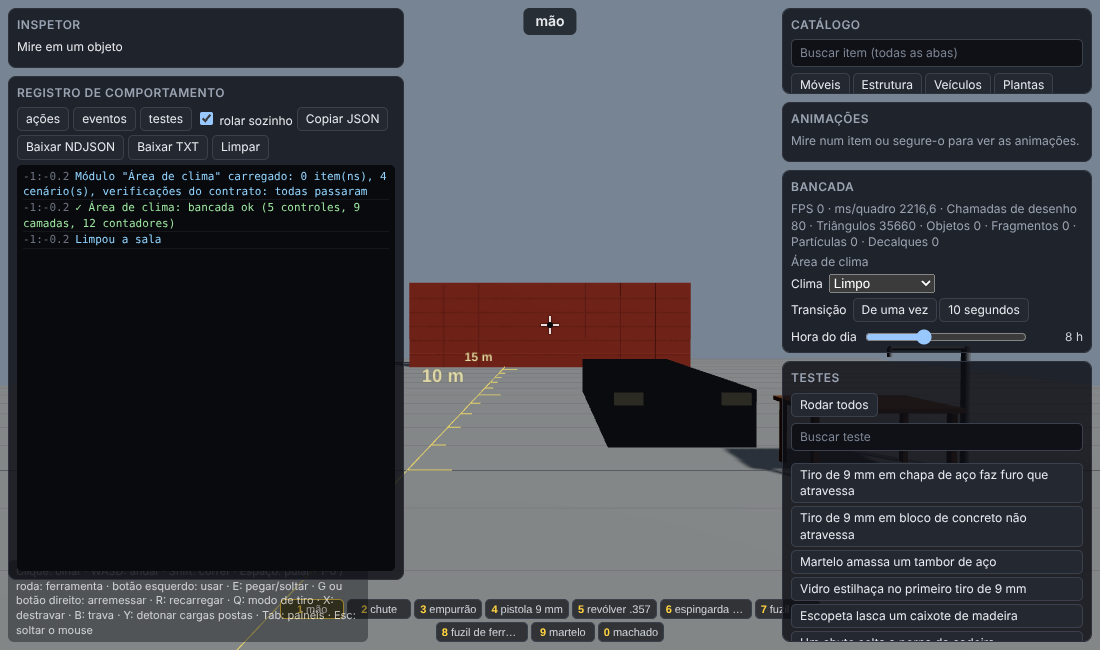
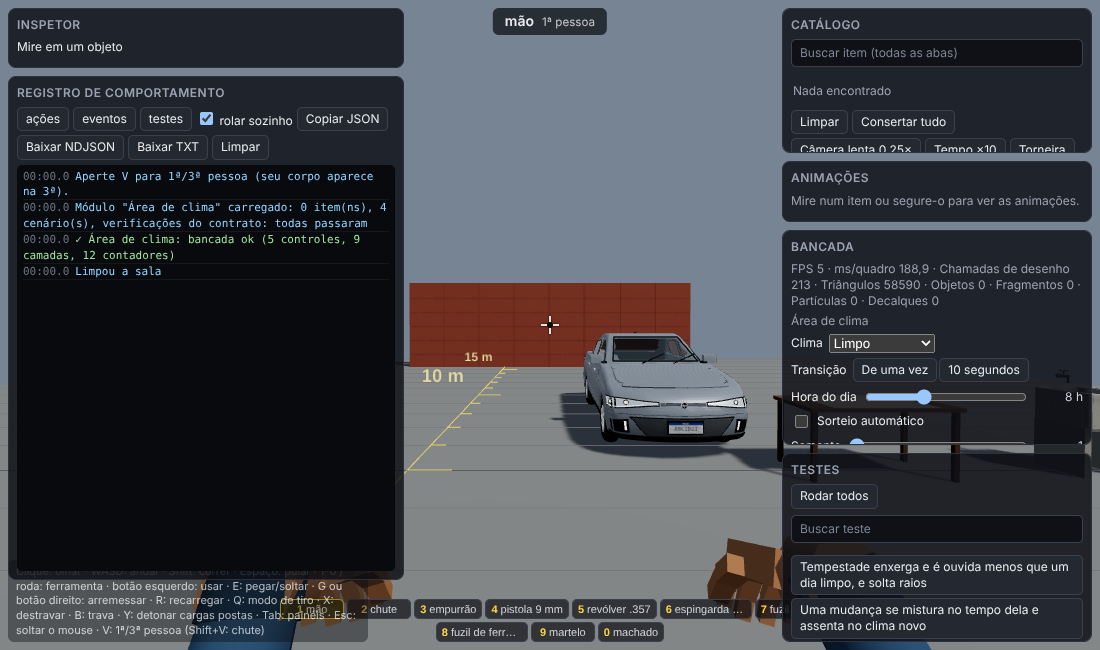
feat(weather-three): mount the lamp rig on a fleet car from the vehicles SDK
The weather bench drew its own car for the headlights: a dark box with two
lamp plates, standing 2.5 m ahead of the test room camera. It now takes the
vehicles SDK (`createWeatherVisual({ vehicles })`) and builds a fleet car
(`rigVehicle`, default `midsize_sedan`) under the lamps, so the rig follows
the fleet. Without it the rig has only the lamps and their beams.

The weather area and the test room pass the fleet builder.

Claude-Session: https://claude.ai/code/session_018vCkiEe6FdDXh8tPaokZ67

diff --git a/packages/game-weather-three/src/bench/visual.ts b/packages/game-weather-three/src/bench/visual.ts
@@ -13,35 +13,42 @@ export type WeatherVisualOptions = Pick<WeatherRendererOptions, 'profile' | 'ran
   readonly vfx?: VfxWorld
   /** Where the lamp rig stands (the two headlights of the Workshop's car, to see the beams); `false` leaves it out. Default 2.5 m ahead of the test room camera, lamps toward it. */
   readonly rig?: readonly [x: number, z: number, turn: number] | false
+  /**
+   * The car the lamps are mounted on, built by the vehicles SDK for the host's three.js (`createVehiclesThree` of game-vehicles-three with the fleet installed), so the rig follows the fleet when it
+   * changes. Without it the rig has only the lamps and their beams: no car drawn here.
+   */
+  readonly vehicles?: (THREE: ThreeLib) => RigVehicles
+  /** Fleet id of the rig's car (default `midsize_sedan`). */
+  readonly rigVehicle?: string
   /** Which layers start on (all do by default); the room that is not about weather starts the sky and the fog off to keep its own look. */
   readonly layers?: Partial<Record<WeatherLayerId, boolean>>
 }
 
+/** What the rig needs of the vehicles SDK (`VehiclesThree` of game-vehicles-three): a car in the game frame (front on +z, wheels on y = 0) and its length. */
+export interface RigVehicles {
+  build(key: string, options?: { quality?: 'high' | 'lite' }): { readonly group: THREE_NS.Object3D; readonly length: number; dispose(): void }
+}
+
+const RIG_VEHICLE = 'midsize_sedan'
 const LAYER_ORDER: readonly Exclude<WeatherLayerId, 'fog'>[] = ['far_rain', 'near_rain', 'mist', 'sky', 'lightning', 'headlights', 'haze']
 const RIG_DEFAULT = [1.6, -2.5, 0] as const
 
-/** Two lamps, a body and the glass of the lamps (the Workshop's `hlMat`): what the headlights are attached to when the viewer has no car in the room. */
-function buildRig(THREE: ThreeLib): { readonly group: THREE_NS.Group; readonly lens: THREE_NS.MeshBasicMaterial; dispose(): void } {
+/**
+ * The lamps of the Workshop's car and, when the vehicles SDK is lent, a car of the fleet under them, its nose just ahead of the lamps: what the headlights are attached to when the viewer has no
+ * car in the room.
+ */
+function buildRig(THREE: ThreeLib, vehicles: RigVehicles | undefined, key: string): { readonly group: THREE_NS.Group; dispose(): void } {
   const group = new THREE.Group()
   group.name = 'weather-lamp-rig'
-  const body = new THREE.Mesh(new THREE.BoxGeometry(1.8, 0.7, 4.2), new THREE.MeshBasicMaterial({ color: 0x1b1d20 }))
-  body.position.set(0, 0.5, 0)
-  const lens = new THREE.MeshBasicMaterial({ color: HEADLIGHTS.lens.off })
-  const lampGeometry = new THREE.BoxGeometry(0.35, 0.15, 0.05)
-  for (const side of [-1, 1]) {
-    const lamp = new THREE.Mesh(lampGeometry, lens)
-    lamp.position.set(side * HEADLIGHTS.lamp[0], HEADLIGHTS.lamp[1], 2.11)
-    group.add(lamp)
+  const car = vehicles?.build(key, { quality: 'lite' })
+  if (car) {
+    car.group.position.z = HEADLIGHTS.lamp[2] + 0.1 - car.length / 2
+    group.add(car.group)
   }
-  group.add(body)
   return {
     group,
-    lens,
     dispose() {
-      body.geometry.dispose()
-      ;(body.material as THREE_NS.Material).dispose()
-      lampGeometry.dispose()
-      lens.dispose()
+      car?.dispose()
     },
   }
 }
@@ -71,20 +78,20 @@ export function createWeatherVisual(options: WeatherVisualOptions = {}): Weather
         ...(options.headlights ? { headlights: options.headlights } : {}),
         ...(options.layers ? { layers: options.layers } : {}),
       })
-      return attachRig(THREE, host, renderer, options.rig === undefined ? RIG_DEFAULT : options.rig)
+      return attachRig(THREE, host, renderer, options.rig === undefined ? RIG_DEFAULT : options.rig, options.vehicles?.(THREE), options.rigVehicle ?? RIG_VEHICLE)
     },
   }
 }
 
-function attachRig(THREE: ThreeLib, host: ModuleHost, renderer: WeatherRenderer, place: readonly [number, number, number] | false): WeatherVisual {
+function attachRig(THREE: ThreeLib, host: ModuleHost, renderer: WeatherRenderer, place: readonly [number, number, number] | false, vehicles: RigVehicles | undefined, key: string): WeatherVisual {
   const scene = host.scene as THREE_NS.Scene
-  const rig = place === false ? undefined : buildRig(THREE)
+  const rig = place === false ? undefined : buildRig(THREE, vehicles, key)
   let detach: (() => void) | undefined
   if (rig && place) {
     rig.group.position.set(place[0], 0, place[1])
     rig.group.rotation.y = place[2]
     scene.add(rig.group)
-    detach = renderer.headlights.attach(rig.group, rig.lens)
+    detach = renderer.headlights.attach(rig.group)
   }
   return {
     update: (dt) => renderer.update(dt),

diff --git a/examples/weather-test-area/src/entry.js b/examples/weather-test-area/src/entry.js
@@ -2,18 +2,28 @@
 // `WeatherArea.loadInto(room)` loads it with `room.loadModule` and opens its area. The module is written against the generic contracts only; it
 // writes the weather into the room's environment bus (`host.environment`) and the scene fog, and pushes it through the weather bridges to the room's
 // fluid film (rain, drying, wash), the effects world (wind) and the room's sound (rain and wind loops, thunder).
-// The picture comes from @adatechnology/game-weather-three: the rain curtain, the near rain with splashes, mist and ash, fog, sky, lightning, headlights (a lamp rig in front of the camera) and heat haze.
+// The picture comes from @adatechnology/game-weather-three: the rain curtain, the near rain with splashes, mist and ash, fog, sky, lightning, headlights (a lamp rig in front of the camera, on a car of the fleet built by the vehicles SDK) and heat haze.
 // Bench: weather, transition (at once or 10 s), hour of the day, automatic schedule (x600), seed. Layers: environment, fog, rain curtain, near rain, mist and ash, sky, lightning, headlights, heat haze.
 // Metrics: weather, hour, blend, rain, visibility, sight and hearing scale, wind, temperature, heat index, wet ground, strikes.
 import { CLIMATES, WEATHER_STATES, createWeather, createWeatherTestModule } from '@adatechnology/game-weather'
 import { createWeatherVisual } from '@adatechnology/game-weather-three'
+import { createVehicleKit } from '@adatechnology/game-vehicles'
+import { installFleet } from '@adatechnology/game-vehicles-fleet'
+import { createVehiclesThree } from '@adatechnology/game-vehicles-three'
 
 export { CLIMATES, WEATHER_STATES, createWeather, createWeatherTestModule, createWeatherVisual }
+
+/** The vehicles of the fleet for the lamp rig: one kit for the room's three.js, the fleet installed. */
+export function createRigVehicles(THREE, locale = 'pt-BR') {
+  const kit = createVehicleKit({ THREE, locale })
+  installFleet(kit)
+  return createVehiclesThree(THREE, { kit })
+}
 
 /** Creates the module for the room's locale (`?lang=en` or pt-BR), loads it and opens the weather area. Returns the room's module report. */
 export function loadInto(room, options = {}) {
   const locale = options.locale ?? (new URLSearchParams(globalThis.location?.search ?? '').get('lang') === 'en' ? 'en' : 'pt-BR')
-  const report = room.loadModule(createWeatherTestModule({ targets: { film: room.film, vfx: room.vfx }, visual: createWeatherVisual({ vfx: room.vfx }), ...options, locale }))
+  const report = room.loadModule(createWeatherTestModule({ targets: { film: room.film, vfx: room.vfx }, visual: createWeatherVisual({ vfx: room.vfx, vehicles: (THREE) => createRigVehicles(THREE, locale) }), ...options, locale }))
   room.openArea('weather_area')
   return report
 }

diff --git a/examples/interactables-test-area/src/entry.js b/examples/interactables-test-area/src/entry.js
@@ -25,7 +25,7 @@ import { registerBodyMaterial } from '@adatechnology/game-characters-three'
 import { createModule as createAnimalsModule } from '../../animals-test-area/src/entry.js'
 import { createModule as createCharactersModule } from '../../characters-test-area/src/entry.js'
 import { createModule as createCrowdModule } from '../../crowd-test-area/src/entry.js'
-import { createModule as createUrbanModule } from '../../urban-test-area/src/entry.js'
+import { createModule as createUrbanModule, createVehicleBuilder } from '../../urban-test-area/src/entry.js'
 import { loadVegetationTestModule } from '../../vegetation-test-area/src/entry.js'
 import { loadVehiclesTestModule } from '../../vehicles-test-area/src/entry.js'
 import { createModule as createFloorplanModule } from '../../floorplan-test-area/src/entry.js'
@@ -131,7 +131,7 @@ function loadSteps(room, options, lang) {
   mod('vfx', () => createVfxTestModule({ locale: lang }))
   // the sound and the weather (with its picture: rain curtain, near rain, mist, lightning, headlights, haze; the sky and the fog stay the room's own) ride along too: they use the room's engine and environment (`host.audio`, `host.environment`), so what the furniture does under rain, wind and shots is heard and seen here
   mod('audio', () => createAudioTestModule({ locale: lang }))
-  mod('weather', () => createWeatherTestModule({ locale: lang, fog: false, targets: { film: room.film, vfx: room.vfx }, visual: createWeatherVisual({ vfx: room.vfx, layers: { sky: false } }) }))
+  mod('weather', () => createWeatherTestModule({ locale: lang, fog: false, targets: { film: room.film, vfx: room.vfx }, visual: createWeatherVisual({ vfx: room.vfx, layers: { sky: false }, vehicles: (THREE) => createVehicleBuilder(THREE, lang) }) }))
   // the houses use the room's destruction world and renderer (a shot, a blow or a blast of the room reaches their walls); they are built from the houses area (the bench's Build), not on load
   mod('floorplan', () => createFloorplanModule({ world: room.world, renderer: room.renderer, locale: lang }))
   // the vehicles: the sedan of the cross scenario `car_in_the_yard` and the rest of the Frota test, in the same world as the furniture

diff --git a/packages/game-weather-three/tests/bench-visual.test.ts b/packages/game-weather-three/tests/bench-visual.test.ts
@@ -59,4 +59,31 @@ describe('the weather bench with the visual', () => {
     expect(scene.getObjectByName('weather-rain-curtain')).toBeUndefined()
     expect(scene.getObjectByName('weather-lamp-rig')).toBeUndefined()
   })
+
+  it('draws no car of its own: the rig only carries the lamps unless the vehicles SDK lends one', () => {
+    const { host, scene } = lend()
+    const bare = createWeatherTestModule({ seed: 3, autoSchedule: false, sound: false, visual: createWeatherVisual() })
+    const detachBare = bare.attach?.(host)
+    const empty = scene.getObjectByName('weather-lamp-rig')!
+    expect(empty.children.some((child) => (child as THREE.Mesh).isMesh && (child as THREE.Mesh).geometry.type === 'BoxGeometry')).toBe(false)
+    detachBare?.()
+
+    const built: string[] = []
+    let disposed = 0
+    const vehicles = () => ({
+      build(key: string) {
+        built.push(key)
+        const group = new THREE.Group()
+        group.name = 'fleet-car'
+        return { group, length: 4.8, dispose: () => void disposed++ }
+      },
+    })
+    const module = createWeatherTestModule({ seed: 3, autoSchedule: false, sound: false, visual: createWeatherVisual({ vehicles }) })
+    const detach = module.attach?.(host)
+    const car = scene.getObjectByName('weather-lamp-rig')!.getObjectByName('fleet-car')!
+    expect(built).toEqual(['midsize_sedan'])
+    expect(car.position.z).toBeCloseTo(2.15 + 0.1 - 2.4)
+    detach?.()
+    expect(disposed).toBe(1)
+  })
 })

diff --git a/packages/game-weather-three/src/index.ts b/packages/game-weather-three/src/index.ts
@@ -20,7 +20,7 @@ export type { HeadlightRules, Headlights } from './headlights'
 export { createHeatHaze, HEAT_HAZE, HEAT_HAZE_FRAGMENT, HEAT_HAZE_VERTEX } from './heat-haze'
 export type { HeatHaze } from './heat-haze'
 export { createWeatherVisual } from './bench/visual'
-export type { WeatherVisualOptions } from './bench/visual'
+export type { RigVehicles, WeatherVisualOptions } from './bench/visual'
 export { weatherVisualTextOf } from './bench/text'
 export type { WeatherVisualText } from './bench/text'
 export type { ThreeLib, Vec3, WeatherProfileName, WeatherSource, ZoneFog } from './types'

diff --git a/packages/game-weather-three/README.md b/packages/game-weather-three/README.md
@@ -33,8 +33,9 @@ picture.update(dt)
 ## Bench
 
 `createWeatherTestModule({ visual: createWeatherVisual({ vfx: room.vfx }) })` (the module of `game-weather`) adds the picture to the weather bench: seven layers
-(rain curtain, near rain and splashes, mist and ash, sky, lightning, headlights, heat haze; names in pt-BR and en), and a lamp rig (two lamps on a block, the
-Workshop's `hlMat` lenses) in front of the camera to show the headlights. `layers: { sky: false }` keeps a room's own sky; the bench's own `fog` layer reaches the
+(rain curtain, near rain and splashes, mist and ash, sky, lightning, headlights, heat haze; names in pt-BR and en), and a lamp rig in front of the camera to show the headlights. The rig's car is not drawn here: pass
+`vehicles: (THREE) => createVehiclesThree(THREE, { kit })` (game-vehicles-three, with the fleet installed) and it builds a fleet car (`rigVehicle`, default
+`midsize_sedan`) under the lamps, so it follows the vehicles SDK; without it the rig has only the lamps and their beams. `layers: { sky: false }` keeps a room's own sky; the bench's own `fog` layer reaches the
 renderer too. The fog layer gives back the fog the host had when it is switched off.
 
 ## Proof

diff --git a/.changeset/weather-rig-fleet-car.md b/.changeset/weather-rig-fleet-car.md
@@ -1,0 +1,5 @@
+---
+'@adatechnology/game-weather-three': minor
+---
+
+The bench's lamp rig no longer draws its own car (a dark box with two lamp plates). `createWeatherVisual({ vehicles })` takes the vehicles SDK (`createVehiclesThree` of game-vehicles-three with the fleet installed) and mounts the headlights on a fleet car (`rigVehicle`, default `midsize_sedan`), so the rig follows the fleet; without it the rig has only the lamps and their beams. New exported type `RigVehicles`.
